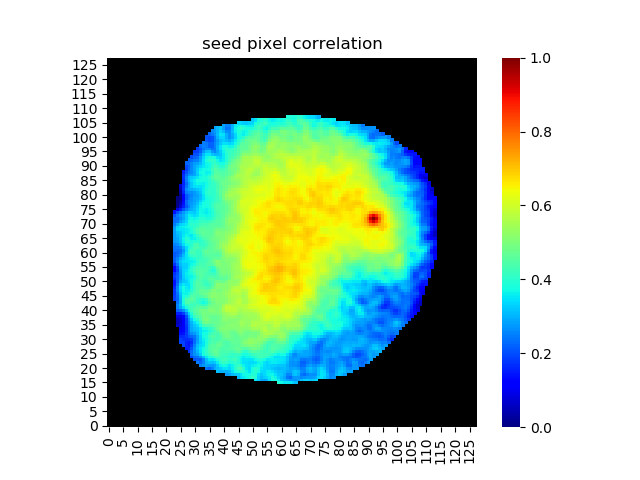
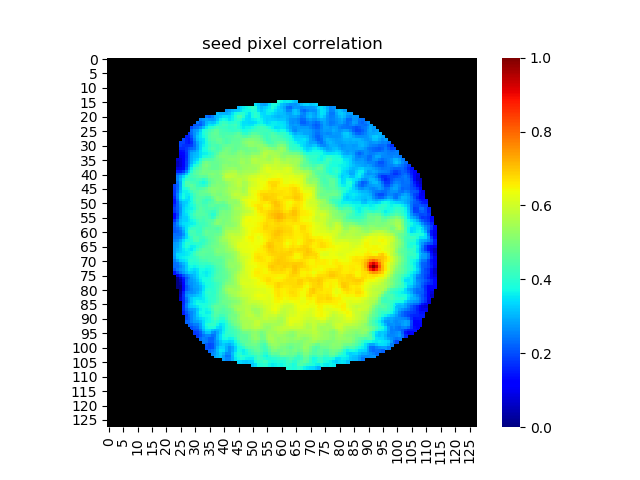
added correct img files

Changed region(s): [[0.25, 0.1875, 0.6875, 0.8125], [0.0938, 0.125, 0.1562, 0.9062]]

diff --git a/main.py b/main.py
@@ -46,7 +46,7 @@ for seed in seeds:
 
         ax = sns.heatmap(pears, cmap=cm.jet, vmin=0, vmax=1, square=True)
         ax.set_facecolor('xkcd:black')
-        ax.invert_yaxis()
+        # ax.invert_yaxis()
         fig = ax.get_figure()
         plt.title('seed pixel correlation')
         fig.savefig(os.path.join(path, 'seed_maps', filtered_file['file'][:3] + seed))
